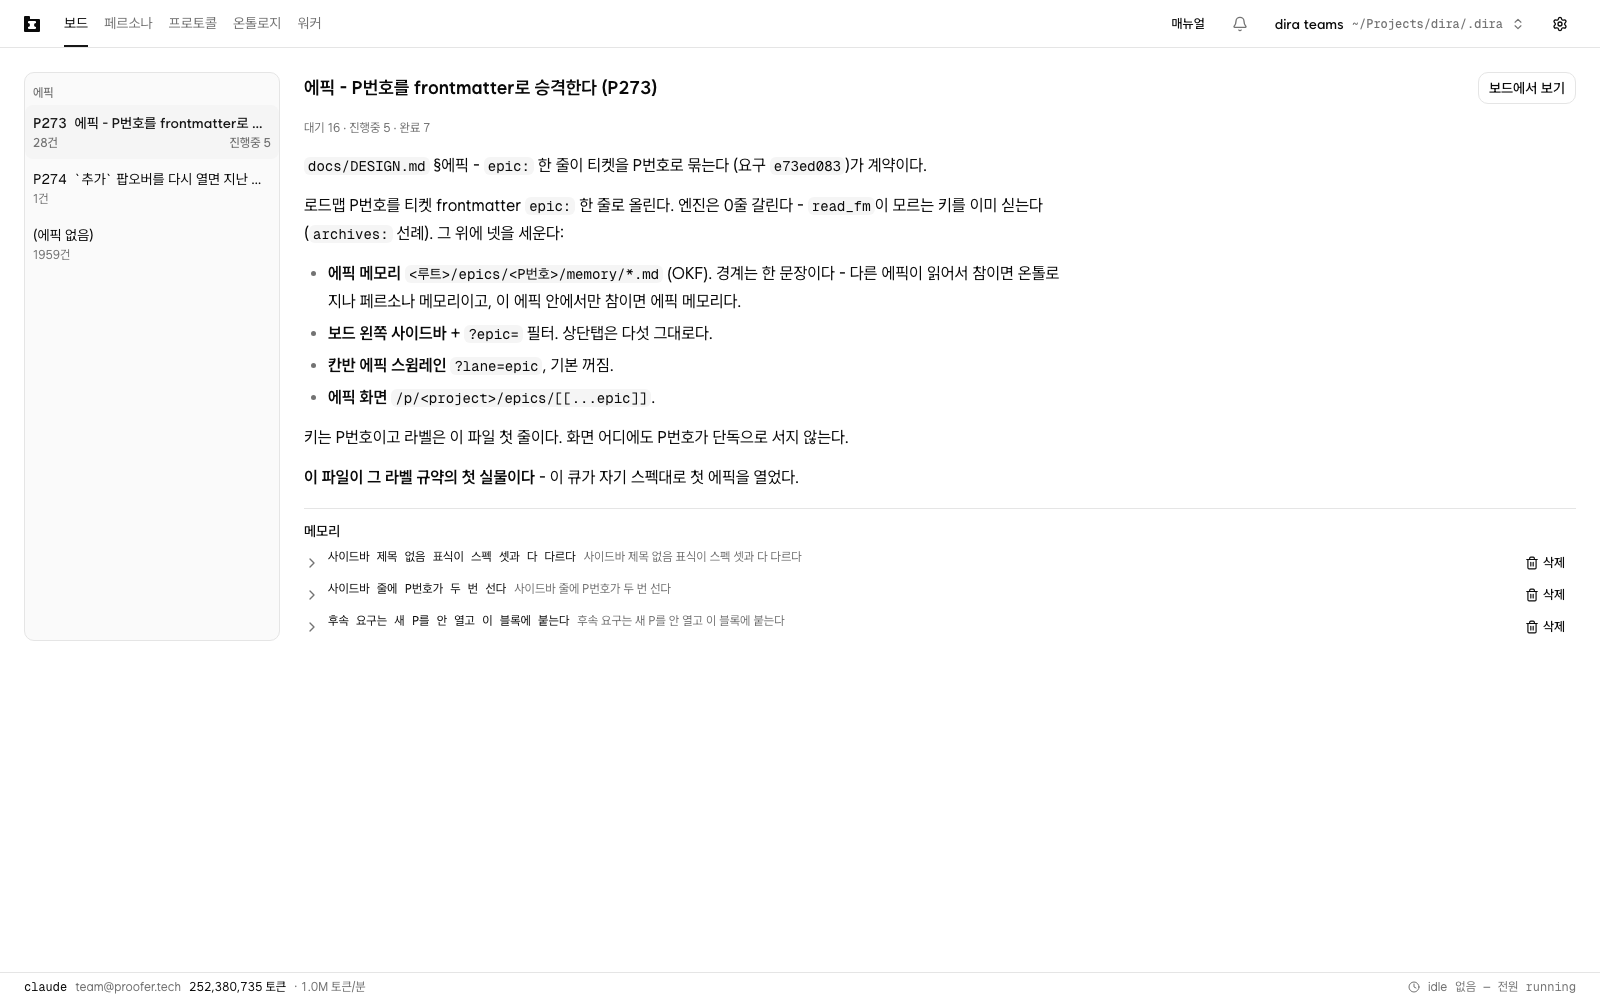
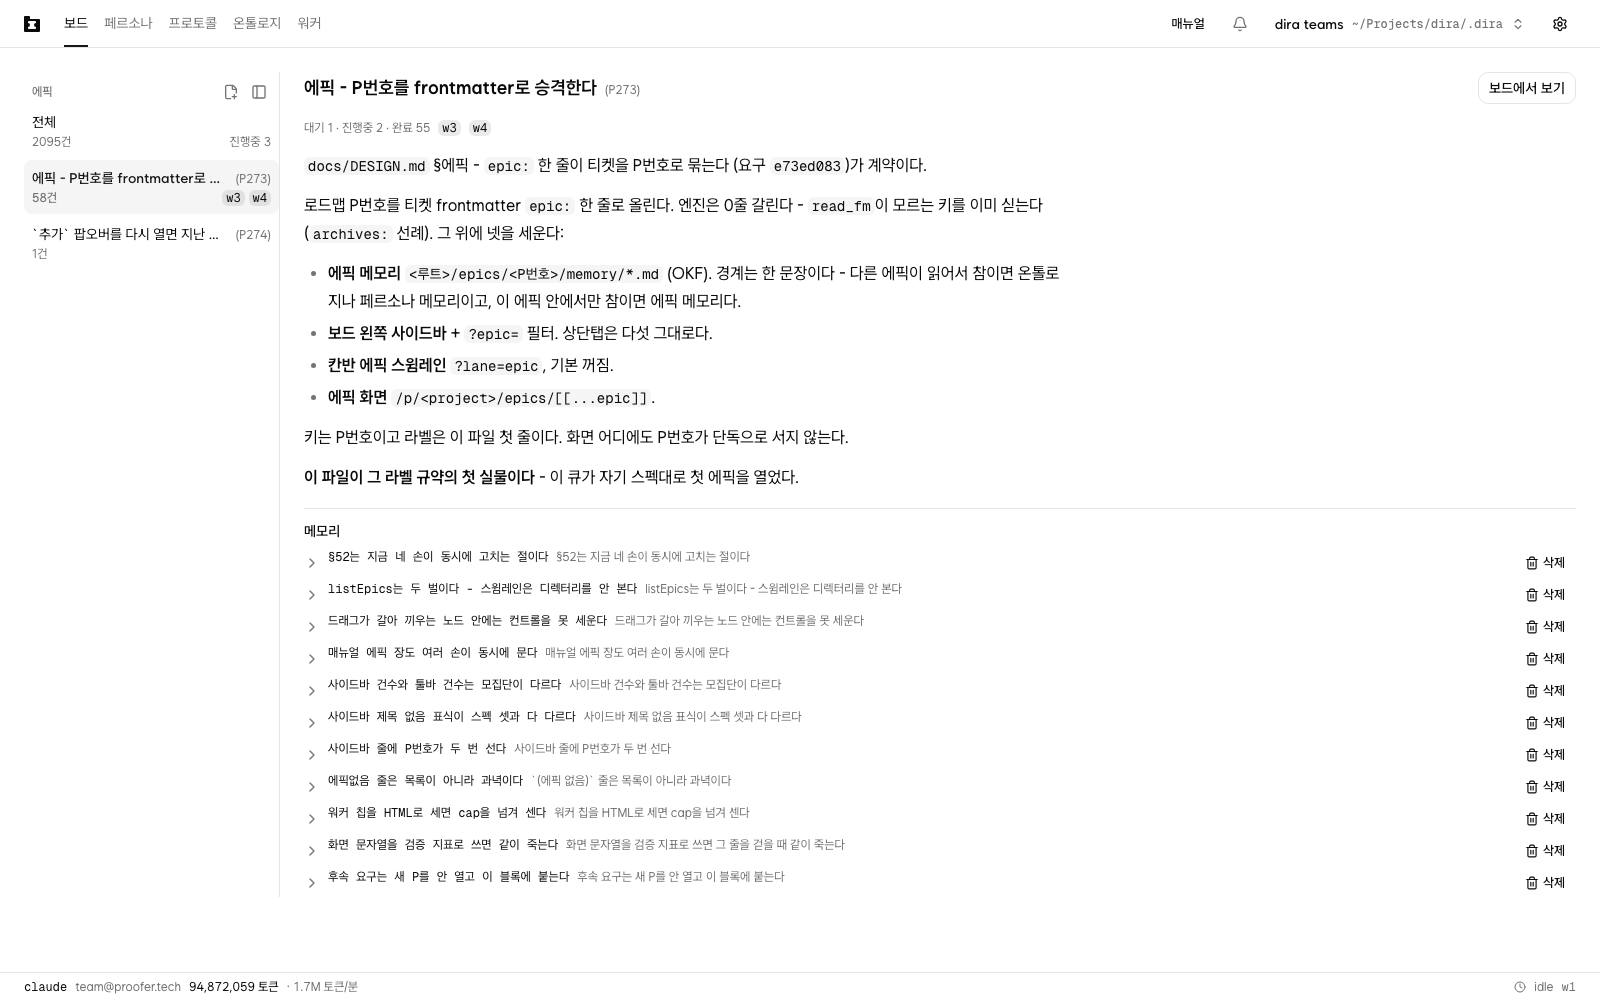
캡처(에픽 P273 - 결정 11-12-13-14-17-18 - 요구 e49c7b23): 에픽 화면 11-epics.png 재촬영
/p/dira/epics/P273를 gstack browse(헤드리스 크롬, 뷰포트 1600x1000)로 다시 실측
캡처. 옛 그림과 어긋나던 네 줄이 지금 화면에서 전부 참으로 바뀌었다 - 맨 위
전체 줄이 서고, 머리 행에 에픽 만들기 + 접기 아이콘 둘이 있고, 1행이 제목
먼저고 번호가 뒤 괄호에 작게 붙고, 줄 오른쪽 끝에 워커 칩(w3 w4)이 선다.
Next dev 표시기(nextjs-portal)만 캡처 직전 DOM에서 숨겼다.

docs/epics.md 첫 h1 바로 아래에 참조를 다시 걸고 alt 문장도 새 화면대로
다시 썼다(대기 1 · 진행중 2 · 완료 55, 메모 11줄).

Ticket: 7ac8307d

diff --git a/apps/teams/docs/epics.md b/apps/teams/docs/epics.md
@@ -1,5 +1,7 @@
 # 에픽
 
+![에픽 화면. 왼쪽 사이드바 맨 위에 전체 줄이 서고 그 아래로 에픽이 건수와 함께 줄지어 있고 그중 P273이 골라져 있습니다. 오른쪽은 고른 에픽의 제목(번호는 뒤 괄호)과 대기 1 · 진행중 2 · 완료 55 카운트, 그 옆에 워커 칩 w3 · w4, 그 아래로 에픽 파일 본문이 이어지고, 맨 밑 메모리 자리에 메모 11줄이 각각 삭제 버튼을 달고 놓여 있습니다.](/shots/11-epics.png)
+
 한 프로젝트에서 주제가 둘 이상 돌기 시작하면 보드가 섞입니다. 사이드바를 뜯어고치는 티켓과
 결제 버그 티켓이 같은 `대기` 레인에 나란히 앉습니다. 어느 쪽이 어디까지 갔는지는 제목을
 하나씩 읽어야 압니다.
